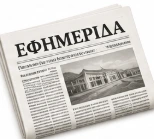
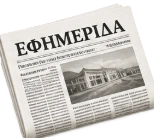
Φωνολογική Επίγνωση: all pictures re-processed, every word now has a picture

diff --git a/eidiki-ekpaideysi/fonologiki-epignosi/paixnidi/js/pictures.js b/eidiki-ekpaideysi/fonologiki-epignosi/paixnidi/js/pictures.js
@@ -21,15 +21,15 @@
         'βερικοκο': 'verikoko', 'βιβλιο': 'vivlio', 'βιδα': 'vida', 'βιολι': 'violi', 'βοτανο': 'votano', 'βοτσαλα': 'votsala', 'βοτσαλο': 'votsala',
         'βουνο': 'vouno', 'βροχη': 'vrochi', 'βρυση': 'vrysi', 'γαιδαρος': 'gaidouri', 'γαιδουρι': 'gaidouri', 'γαλα': 'gala', 'γαντι': 'gadi',
         'γατα': 'gata', 'γατακι': 'gata', 'γατος': 'gata', 'γεια': 'geia', 'γεφυρα': 'gefyra', 'γκαραζ': 'gkaraz', 'γλαστρα': 'glastra',
-        'γλυκο': 'glyko', 'γομα': 'goma', 'γουρουνι': 'gourouni', 'γραβατα': 'gravata', 'γρασιδι': 'grasidi', 'γριλοσ': 'grilos', 'γρυλοσ': 'grilos',
-        'γυαλια': 'gyalia', 'δακτυλο': 'daktylo', 'δασοσ': 'dasos', 'δαχτυλο': 'daktylo', 'δελφινι': 'delfini', 'δεμα': 'dema', 'δεντρακι': 'dentro',
-        'δεντρο': 'dentro', 'διαδρομοσ': 'diadromos', 'δισκοσ': 'diskos', 'δοντι': 'dodi', 'δρακοσ': 'drakos', 'δρομοσ': 'dromos', 'δωρο': 'doro',
-        'εκκλησια': 'ekklisia', 'ελατο': 'elato', 'ελαφι': 'elafi', 'ελεφαντασ': 'elefantas', 'ελια': 'elia', 'ελικοπτερο': 'elikoptero',
-        'εξοχη': 'exochi', 'εξωπορτα': 'exoporta', 'εργαλειο': 'ergaleio', 'εφημεριδα': 'efimerida', 'ζαμπον': 'zabon', 'ζαρι': 'zaria',
-        'ζαρια': 'zaria', 'ζαχαρη': 'zachari', 'ζεβρα': 'zevra', 'ζελε': 'zele', 'ζελεσ': 'zele', 'ζευγαρι': 'zeygari', 'ζυμαρικα': 'zymarika',
-        'ζωα': 'zoa', 'ζωγραφια': 'zografia', 'ζωγραφοσ': 'zografos', 'ζωο': 'zoo', 'ηθοποιοσ': 'ithopoios', 'ηλιαχτιδα': 'iliachtida',
-        'ηλιοσ': 'ilios', 'ημερολογιο': 'imerologio', 'ηπειροσ': 'ipeiros', 'ηρωασ': 'iroas', 'ησυχια': 'isychia', 'ηφαιστειο': 'ifaisteio',
-        'ηχω': 'icho', 'θαλασσα': 'thalassa', 'θαυμα': 'thayma', 'θεατησ': 'theatis', 'θεατρο': 'theatro', 'θεοσ': 'theos',
+        'γλυκο': 'glyko', 'γομα': 'goma', 'γουρουνι': 'gourouni', 'γραβατα': 'gravata', 'γραμμα': 'gramma', 'γρασιδι': 'grasidi', 'γριλοσ': 'grilos',
+        'γρυλοσ': 'grilos', 'γυαλια': 'gyalia', 'δακτυλο': 'daktylo', 'δασοσ': 'dasos', 'δαχτυλο': 'daktylo', 'δελφινι': 'delfini', 'δεμα': 'dema',
+        'δεντρακι': 'dentro', 'δεντρο': 'dentro', 'διαδρομοσ': 'diadromos', 'δισκοσ': 'diskos', 'δοντι': 'dodi', 'δρακοσ': 'drakos',
+        'δρομοσ': 'dromos', 'δωρο': 'doro', 'εκκλησια': 'ekklisia', 'ελατο': 'elato', 'ελαφι': 'elafi', 'ελεφαντασ': 'elefantas', 'ελια': 'elia',
+        'ελικοπτερο': 'elikoptero', 'εξοχη': 'exochi', 'εξωπορτα': 'exoporta', 'εργαλειο': 'ergaleio', 'εφημεριδα': 'efimerida', 'ζαμπον': 'zabon',
+        'ζαρι': 'zaria', 'ζαρια': 'zaria', 'ζαχαρη': 'zachari', 'ζεβρα': 'zevra', 'ζελε': 'zele', 'ζελεσ': 'zele', 'ζευγαρι': 'zeygari',
+        'ζυμαρικα': 'zymarika', 'ζωα': 'zoa', 'ζωγραφια': 'zografia', 'ζωγραφοσ': 'zografos', 'ζωο': 'zoo', 'ηθοποιοσ': 'ithopoios',
+        'ηλιαχτιδα': 'iliachtida', 'ηλιοσ': 'ilios', 'ημερολογιο': 'imerologio', 'ηπειροσ': 'ipeiros', 'ηρωασ': 'iroas', 'ησυχια': 'isychia',
+        'ηφαιστειο': 'ifaisteio', 'ηχω': 'icho', 'θαλασσα': 'thalassa', 'θαυμα': 'thayma', 'θεατησ': 'theatis', 'θεατρο': 'theatro', 'θεοσ': 'theos',
         'θερμομετρο': 'thermometro', 'θηριο': 'thirio', 'θησαυροσ': 'thisayros', 'θορυβοσ': 'thoryvos', 'θρανιο': 'thranio', 'θρονοσ': 'thronos',
         'θυριδα': 'thyrida', 'καδοσ': 'kados', 'καλαθι': 'kalathi', 'καλαμαρι': 'kalamari', 'καλτσα': 'kaltsa', 'καμηλα': 'kamila',
         'καμπανα': 'kabana', 'καναπεσ': 'kanapes', 'κανατα': 'kanata', 'κανονι': 'kanoni', 'καπακι': 'kapaki', 'καπελο': 'kapelo',
@@ -53,30 +53,30 @@
         'πεταλουδα': 'petalouda', 'πιατο': 'piato', 'πιεσ': 'pies', 'πιτα': 'pita', 'πιτσα': 'pitsa', 'πλανητησ': 'planitis', 'πλατη': 'plati',
         'πλοιο': 'ploio', 'ποδηλατο': 'podilato', 'ποδι': 'podi', 'ποντικι': 'podiki', 'ποντικοσ': 'podikos', 'πορτα': 'porta',
         'πορτοκαλαδα': 'portokalada', 'πορτοκαλι': 'portokali', 'ποταμι': 'potami', 'ποτηρι': 'potiri', 'πουλι': 'pouli', 'προβατο': 'provato',
-        'ραδιοφωνο': 'radiofono', 'ρακετα': 'raketa', 'ριζα': 'riza', 'ροδα': 'roda', 'ροδι': 'rodi', 'ρολοι': 'roloi', 'ρομπα': 'roba',
-        'ρομποτ': 'robot', 'ρυζι': 'ryzi', 'σαλατα': 'salata', 'σαλαχι': 'salachi', 'σαλιγκαρι': 'saligkari', 'σαμπουαν': 'sabouan',
-        'σανδαλι': 'sandali', 'σαπουνι': 'sapouni', 'σελιδα': 'selida', 'σεντονι': 'sedoni', 'σκαθαρι': 'skathari', 'σκαλα': 'skala',
-        'σκορδο': 'skordo', 'σκουληκι': 'skouliki', 'σκουπα': 'skoupa', 'σκουπιδι': 'skoupidi', 'σκυλακι': 'skylaki', 'σκυλοσ': 'skylos',
-        'σοκολατα': 'sokolata', 'σπαθι': 'spathi', 'σπιτακι': 'spitaki', 'σπιτι': 'spiti', 'σταφυλι': 'stafyli', 'στολιδι': 'stolidi',
-        'στομα': 'stoma', 'στρωμα': 'stroma', 'συννεφο': 'synnefo', 'σφουγγαρι': 'sfouggari', 'σωμα': 'soma', 'ταμπουρι': 'tabouri', 'ταπα': 'tapa',
-        'ταυροσ': 'tayros', 'ταψι': 'tapsi', 'τετραδιο': 'tetradio', 'τζακι': 'tzaki', 'τηγανι': 'tigani', 'τηλεοραση': 'tileorasi',
-        'τηλεφωνο': 'tilefono', 'τιγρησ': 'tigris', 'τιμονι': 'timoni', 'τοιχοσ': 'toichos', 'τονοσ': 'tonos', 'τοπι': 'topi', 'τουρτα': 'tourta',
-        'τραγουδι': 'tragoudi', 'τρακτερ': 'trakter', 'τραπεζι': 'trapezi', 'τρενο': 'treno', 'τριγωνο': 'trigono', 'τσαι': 'tsai',
-        'τσαντα': 'tsada', 'τσεπη': 'tsepi', 'τυρι': 'tyri', 'φακελοσ': 'fakelos', 'φακοσ': 'fakos', 'φαλαινα': 'falaina', 'φαναρι': 'fanari',
-        'φασολι': 'fasoli', 'φεγγαρι': 'fengari', 'φιδι': 'fidi', 'φλιτζανι': 'flitzani', 'φουρνοσ': 'fournos', 'φουστανι': 'foustani',
-        'φραουλα': 'fraoula', 'φρυδι': 'frydi', 'φτερο': 'ftero', 'φυλλο': 'fyllo', 'φυλο': 'fylo', 'φωκια': 'fokia', 'φωσ': 'fos', 'φωτια': 'fotia',
-        'χαλι': 'chali', 'χαμογελο': 'chamogelo', 'χαρταετοσ': 'chartaetos', 'χαρτησ': 'chartis', 'χαρτι': 'charti', 'χελι': 'cheli',
-        'χελιδονι': 'chelidoni', 'χελωνα': 'xelona', 'χερι': 'cheri', 'χιονανθρωποσ': 'chionanthropos', 'χιονι': 'chioni', 'χορο': 'choro',
-        'χοροσ': 'choros', 'χταποδι': 'xtapodi', 'χτενα': 'chtena', 'ψαλιδι': 'psalidi', 'ψαρασ': 'psaras', 'ψαρι': 'psari',
-        'ψητο': 'psito', 'ψιλλοσ': 'psillos', 'ψιψινα': 'gata', 'ψυγειο': 'psygeio', 'ψυλλοσ': 'psillos', 'ψωμακι': 'psomi', 'ψωμι': 'psomi',
-        'ψωνια': 'psonia',
+        'ραδιοφωνο': 'radiofono', 'ρακετα': 'raketa', 'ραφι': 'rafi', 'ριζα': 'riza', 'ροδα': 'roda', 'ροδι': 'rodi', 'ρολοι': 'roloi',
+        'ρομπα': 'roba', 'ρομποτ': 'robot', 'ρουχο': 'roucho', 'ρυζι': 'ryzi', 'σαλατα': 'salata', 'σαλαχι': 'salachi', 'σαλιγκαρι': 'saligkari',
+        'σαμπουαν': 'sabouan', 'σανδαλι': 'sandali', 'σαπουνι': 'sapouni', 'σελιδα': 'selida', 'σεντονι': 'sedoni', 'σκαθαρι': 'skathari',
+        'σκαλα': 'skala', 'σκορδο': 'skordo', 'σκουληκι': 'skouliki', 'σκουπα': 'skoupa', 'σκουπιδι': 'skoupidi', 'σκυλακι': 'skylaki',
+        'σκυλοσ': 'skylos', 'σοκολατα': 'sokolata', 'σπαθι': 'spathi', 'σπιτακι': 'spitaki', 'σπιτι': 'spiti', 'σταφυλι': 'stafyli',
+        'στολιδι': 'stolidi', 'στομα': 'stoma', 'στρωμα': 'stroma', 'συννεφο': 'synnefo', 'σφουγγαρι': 'sfouggari', 'σωμα': 'soma',
+        'ταμπουρι': 'tabouri', 'ταπα': 'tapa', 'ταυροσ': 'tayros', 'ταψι': 'tapsi', 'τετραδιο': 'tetradio', 'τζακι': 'tzaki', 'τηγανι': 'tigani',
+        'τηλεοραση': 'tileorasi', 'τηλεφωνο': 'tilefono', 'τιγρησ': 'tigris', 'τιμονι': 'timoni', 'τοιχοσ': 'toichos', 'τονοσ': 'tonos',
+        'τοπι': 'topi', 'τουρτα': 'tourta', 'τραγουδι': 'tragoudi', 'τρακτερ': 'trakter', 'τραπεζι': 'trapezi', 'τρενο': 'treno',
+        'τριγωνο': 'trigono', 'τσαι': 'tsai', 'τσαντα': 'tsada', 'τσεπη': 'tsepi', 'τυρι': 'tyri', 'φακελοσ': 'fakelos', 'φακοσ': 'fakos',
+        'φαλαινα': 'falaina', 'φαναρι': 'fanari', 'φασολι': 'fasoli', 'φεγγαρι': 'fengari', 'φιδι': 'fidi', 'φλιτζανι': 'flitzani',
+        'φορεμα': 'forema', 'φουρνοσ': 'fournos', 'φουστανι': 'forema', 'φραουλα': 'fraoula', 'φρουτο': 'frouto', 'φρυδι': 'frydi', 'φτερο': 'ftero',
+        'φυλλο': 'fyllo', 'φυλο': 'fylo', 'φωκια': 'fokia', 'φωσ': 'fos', 'φωτια': 'fotia', 'χαλι': 'chali', 'χαμογελο': 'chamogelo',
+        'χαρταετοσ': 'chartaetos', 'χαρτησ': 'chartis', 'χαρτι': 'charti', 'χελι': 'cheli', 'χελιδονι': 'chelidoni', 'χελωνα': 'xelona',
+        'χερι': 'cheri', 'χιονανθρωποσ': 'chionanthropos', 'χιονι': 'chioni', 'χορο': 'choro', 'χοροσ': 'choros', 'χταποδι': 'xtapodi',
+        'χτενα': 'chtena', 'ψαλιδι': 'psalidi', 'ψαρασ': 'psaras', 'ψαρι': 'psari', 'ψητο': 'psito', 'ψιλλοσ': 'psillos', 'ψιψινα': 'gata',
+        'ψυγειο': 'psygeio', 'ψυλλοσ': 'psillos', 'ψωμακι': 'psomi', 'ψωμι': 'psomi', 'ψωνια': 'psonia',
     };
 
     // τα κλειδιά περνούν από την ίδια fold() (π.χ. το τελικό ς γίνεται σ), ώστε να ταιριάζουν με τις λέξεις του παιχνιδιού
     const MAP = {}; Object.keys(PICS).forEach((k) => { MAP[fold(k)] = PICS[k]; });
 
     // αύξησε τον αριθμό όταν αλλάζεις κάποια εικόνα, για να την ξαναφορτώσουν οι browsers
-    const V = 13;
+    const V = 15;
 
     const wrap = (emoji, word) => {
         const file = MAP[fold(word)];

diff --git a/eidiki-ekpaideysi/fonologiki-epignosi/paixnidi/index.html b/eidiki-ekpaideysi/fonologiki-epignosi/paixnidi/index.html
@@ -60,7 +60,7 @@
     <script src="js/games/level3.js?v=91"></script>
     <script src="js/games/level4.js?v=91"></script>
     <script src="js/games/level5.js?v=92"></script>
-    <script src="js/pictures.js?v=107"></script>
+    <script src="js/pictures.js?v=109"></script>
     <script src="js/app.js?v=93"></script>
 </body>
 </html>
